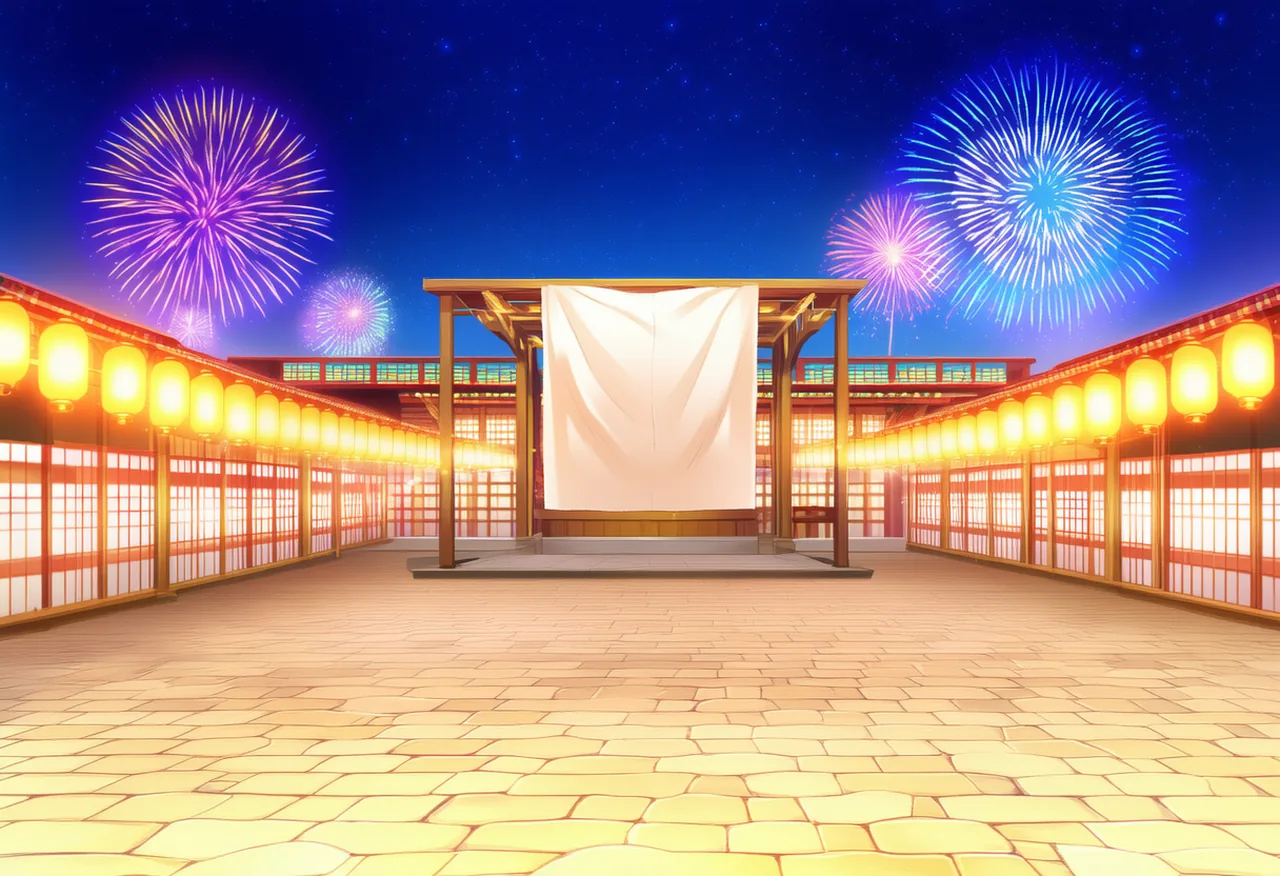
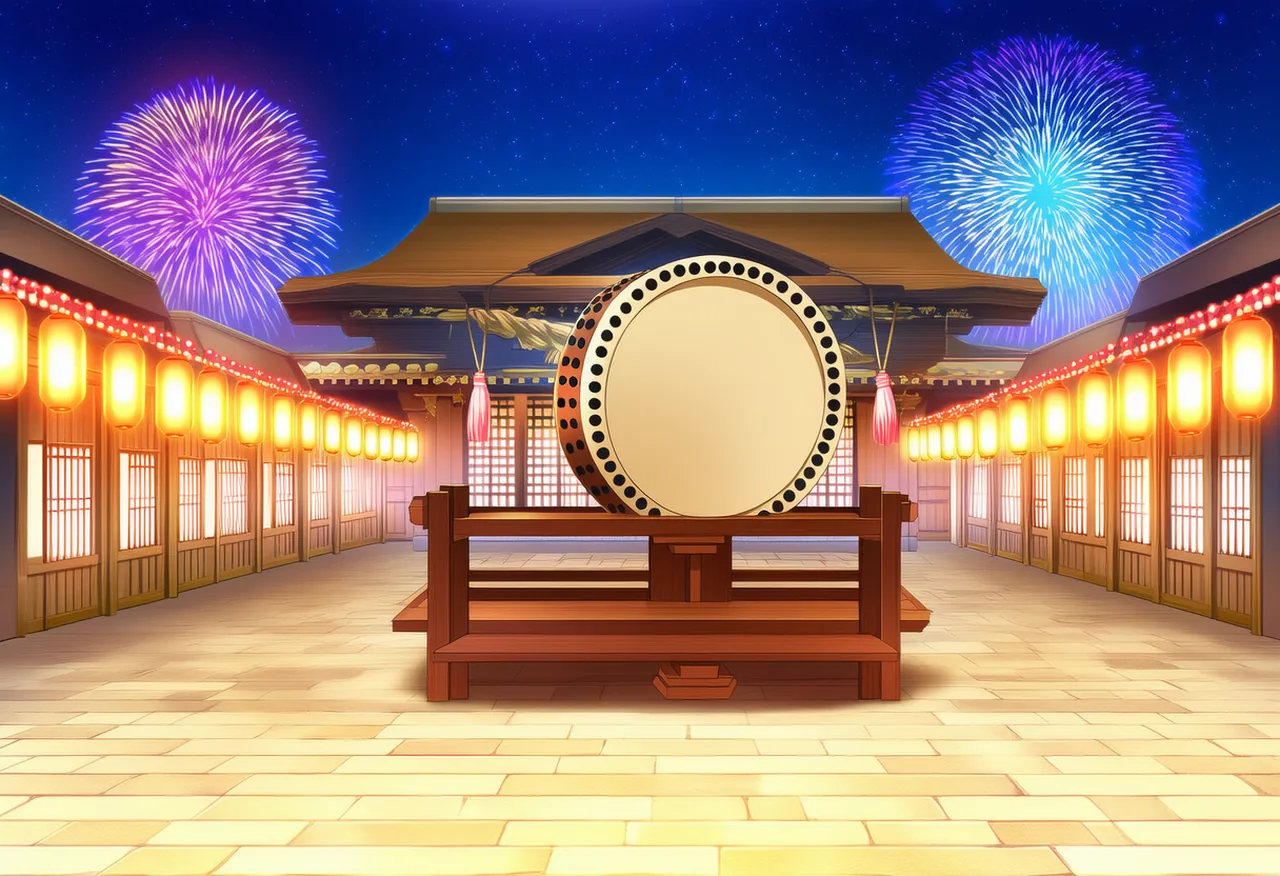
Story backdrops: re-roll Festival Drum with a real drum
The old picture had a blank white sheet on the stage and no drum (review
round 1, M2). Re-rolled with the story-bg tool (free tier, 0 Anlas, same
seed and style tags): the same lantern-lined night square with fireworks,
now with a big taiko drum on a wooden stand at its centre and no cloth or
signs. The prompt no longer asks for a stage wrapped in cloth. Focus moves
to 54% 40% so the drum stays whole on a portrait phone.

Claude-Session: https://claude.ai/code/session_011tKQCsXYzAZC7aCMrikBYa

diff --git a/src/data/story/backgrounds.js b/src/data/story/backgrounds.js
@@ -55,7 +55,7 @@ export const BACKGROUNDS = {
   foundry: place('foundry', '50% 60%'),
   'sakura-sanctuary': place('sakura-sanctuary', '45% 80%'),
   'festival-street': place('festival-street', '50% 55%'),
-  'festival-drum': place('festival-drum', '45% 40%'),
+  'festival-drum': place('festival-drum', '54% 40%'),
   'base-camp': place('base-camp', '50% 75%'),
   'summit-nest': place('summit-nest', '50% 75%'),
   // Gate Arc, Act 1 (its scenes and stages 1-6 to 1-10 are not written yet)

diff --git a/tools/story-bg/locations.py b/tools/story-bg/locations.py
@@ -132,8 +132,11 @@ ALT = {
                 "windows, cheerful steampunk"),
     "workshop": ("indoor-soft", "school robotics club workshop interior, workbenches with tools and brass gears, small cute robots and "
                  "little quadcopter drones on shelves, pegboard with wrenches, cables, big windows, tidy and cheerful"),
-    "festival-drum": ("night", "open festival square at night, a large taiko drum on a tall wooden tower stage wrapped in plain red and "
-                      "white cloth, strings of glowing red paper lanterns, stone paving, colorful fireworks in the night sky, no signboards"),
+    # Oct 28 re-roll: the old wording ("stage wrapped in cloth") painted a blank white sheet and no drum
+    "festival-drum": ("night", "open festival square at night, a raised wooden festival stage in the center with one huge "
+                      "taiko drum on a wooden stand, the drum seen at a three-quarter angle, cream hide drum head, dark lacquered "
+                      "wooden barrel body with rows of brass studs, thick red and white rope tassels on the stand, strings of glowing red paper lanterns on both sides, "
+                      "wooden festival halls with lit paper windows, stone paving, colorful fireworks in the night sky"),
     "base-camp": ("dawn", "busy mountain base camp in an alpine meadow, many canvas tents in rows, stacked wooden supply crates, a small "
                   "campfire with a tea kettle, plain colored pennant flags, a tall dark volcanic peak in the distance with a thin plume "
                   "of white smoke from the summit"),
